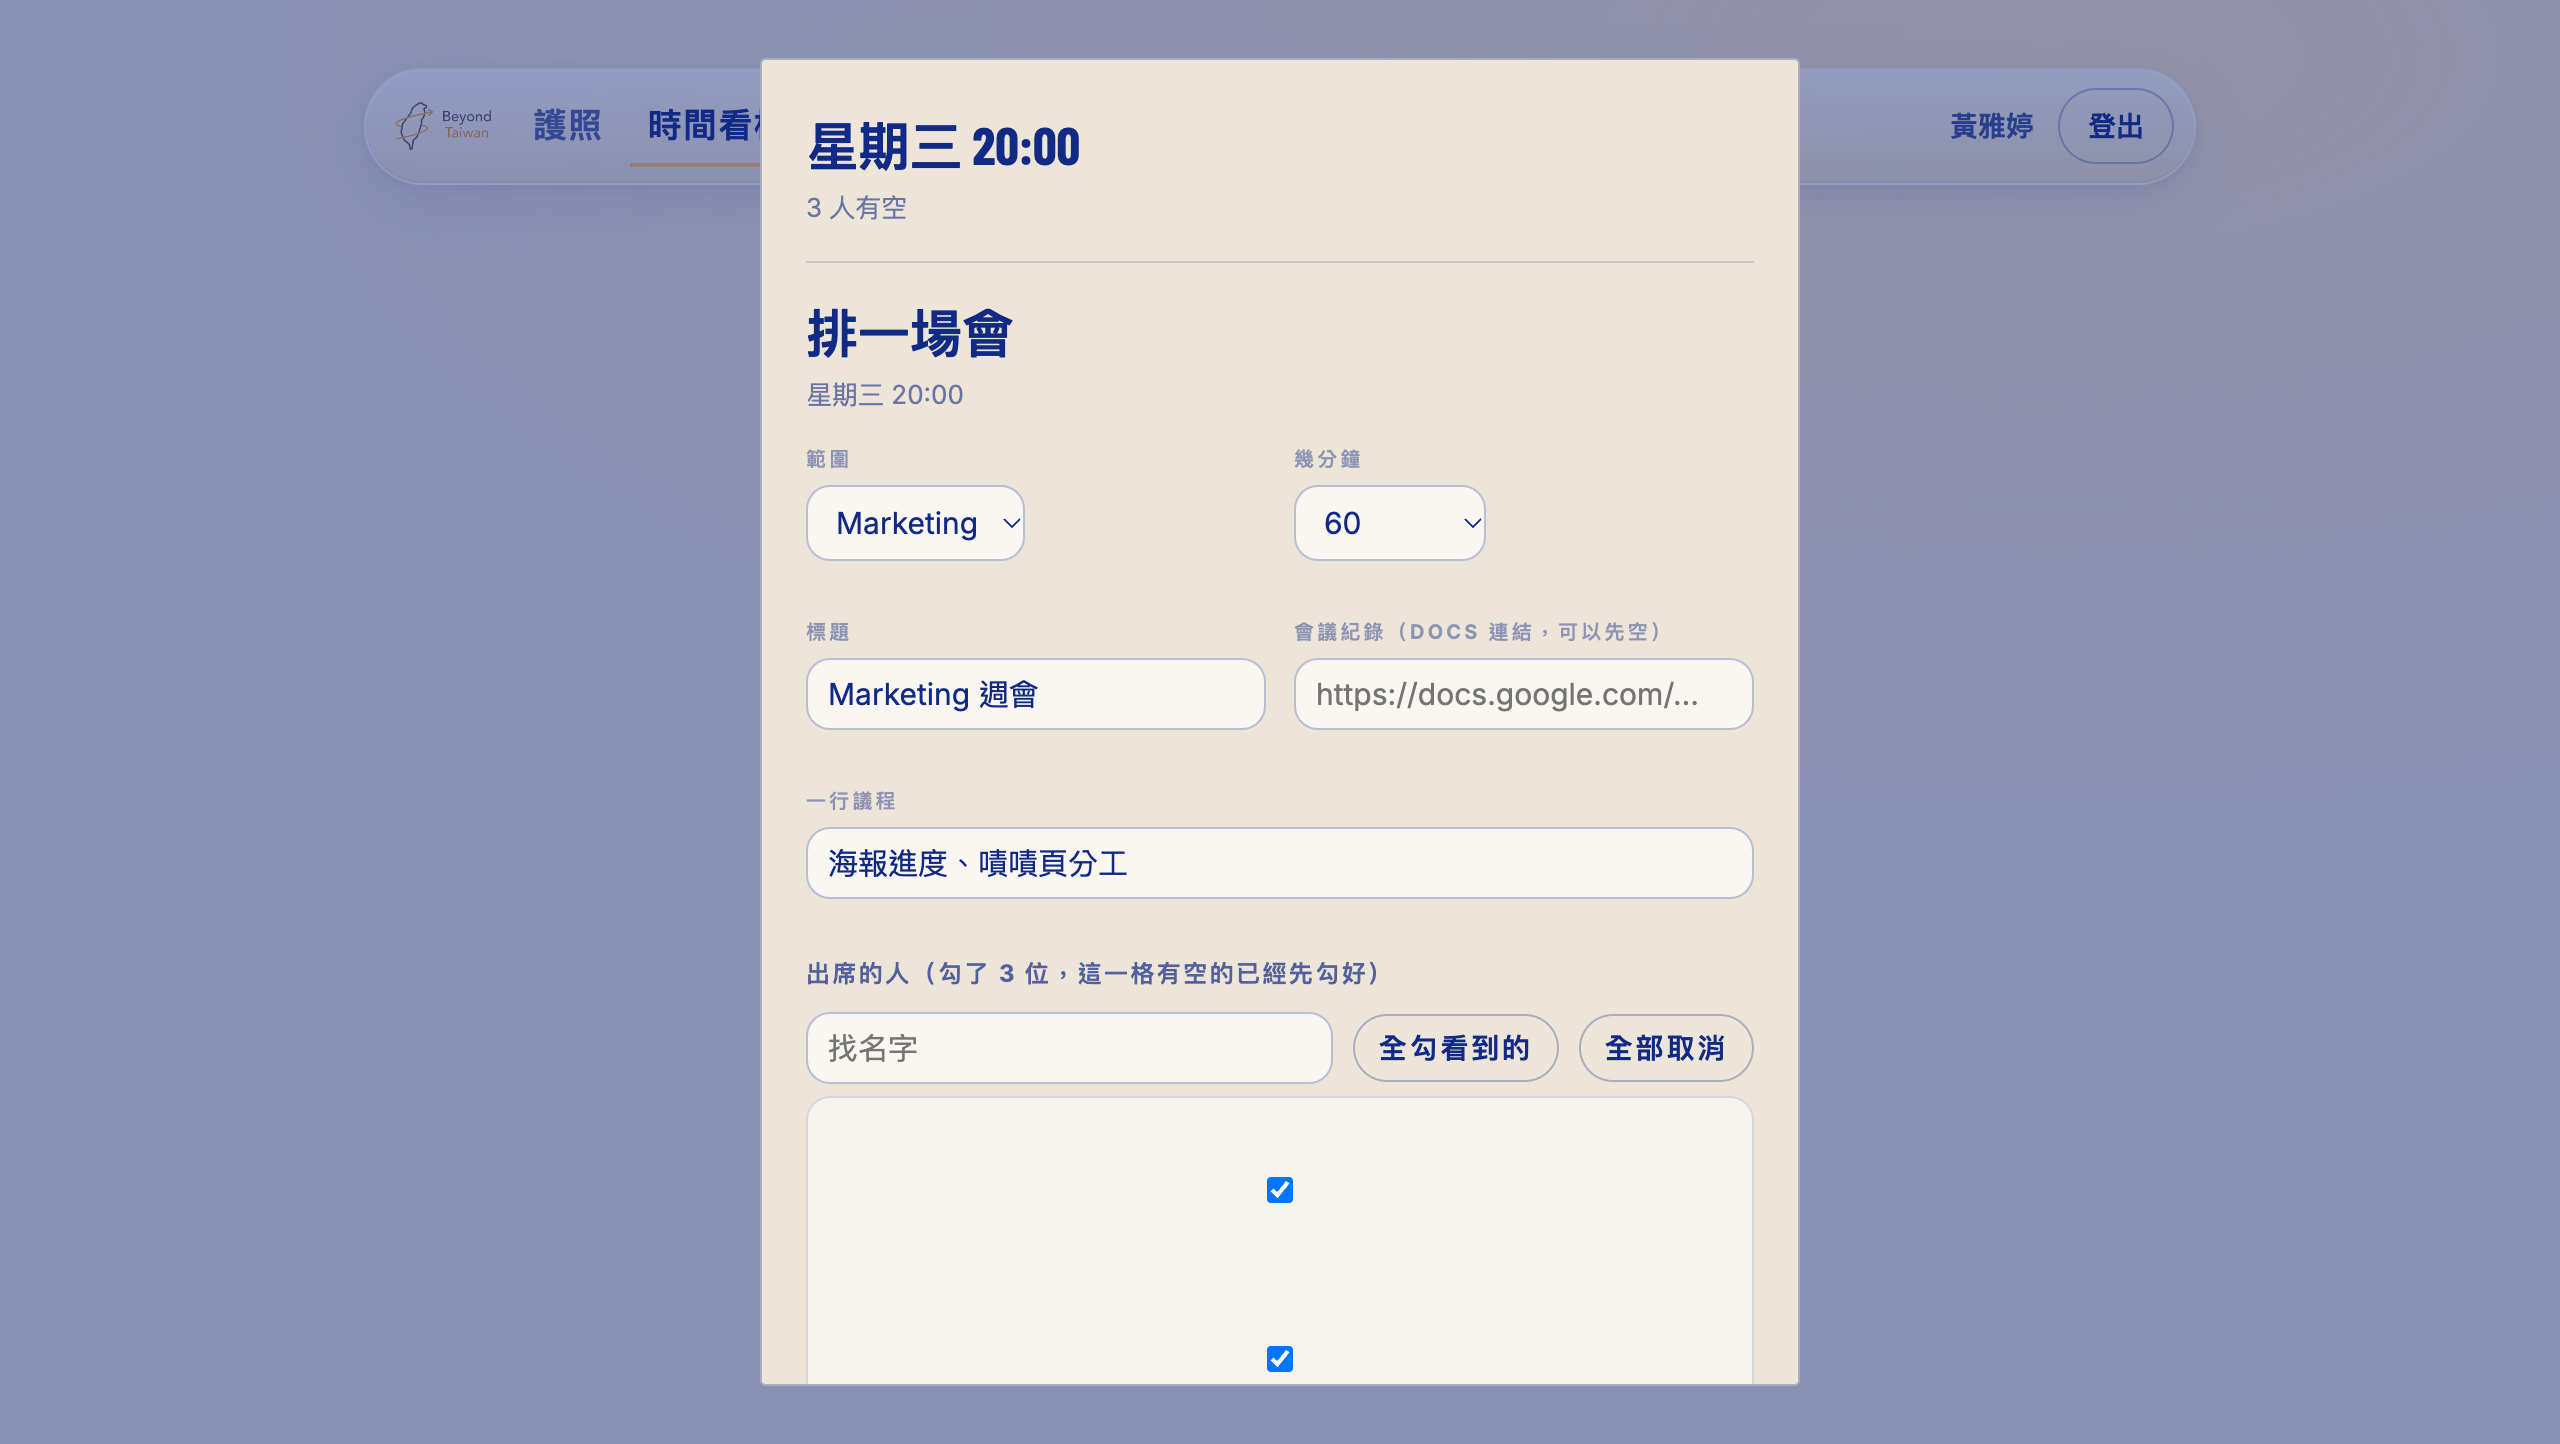
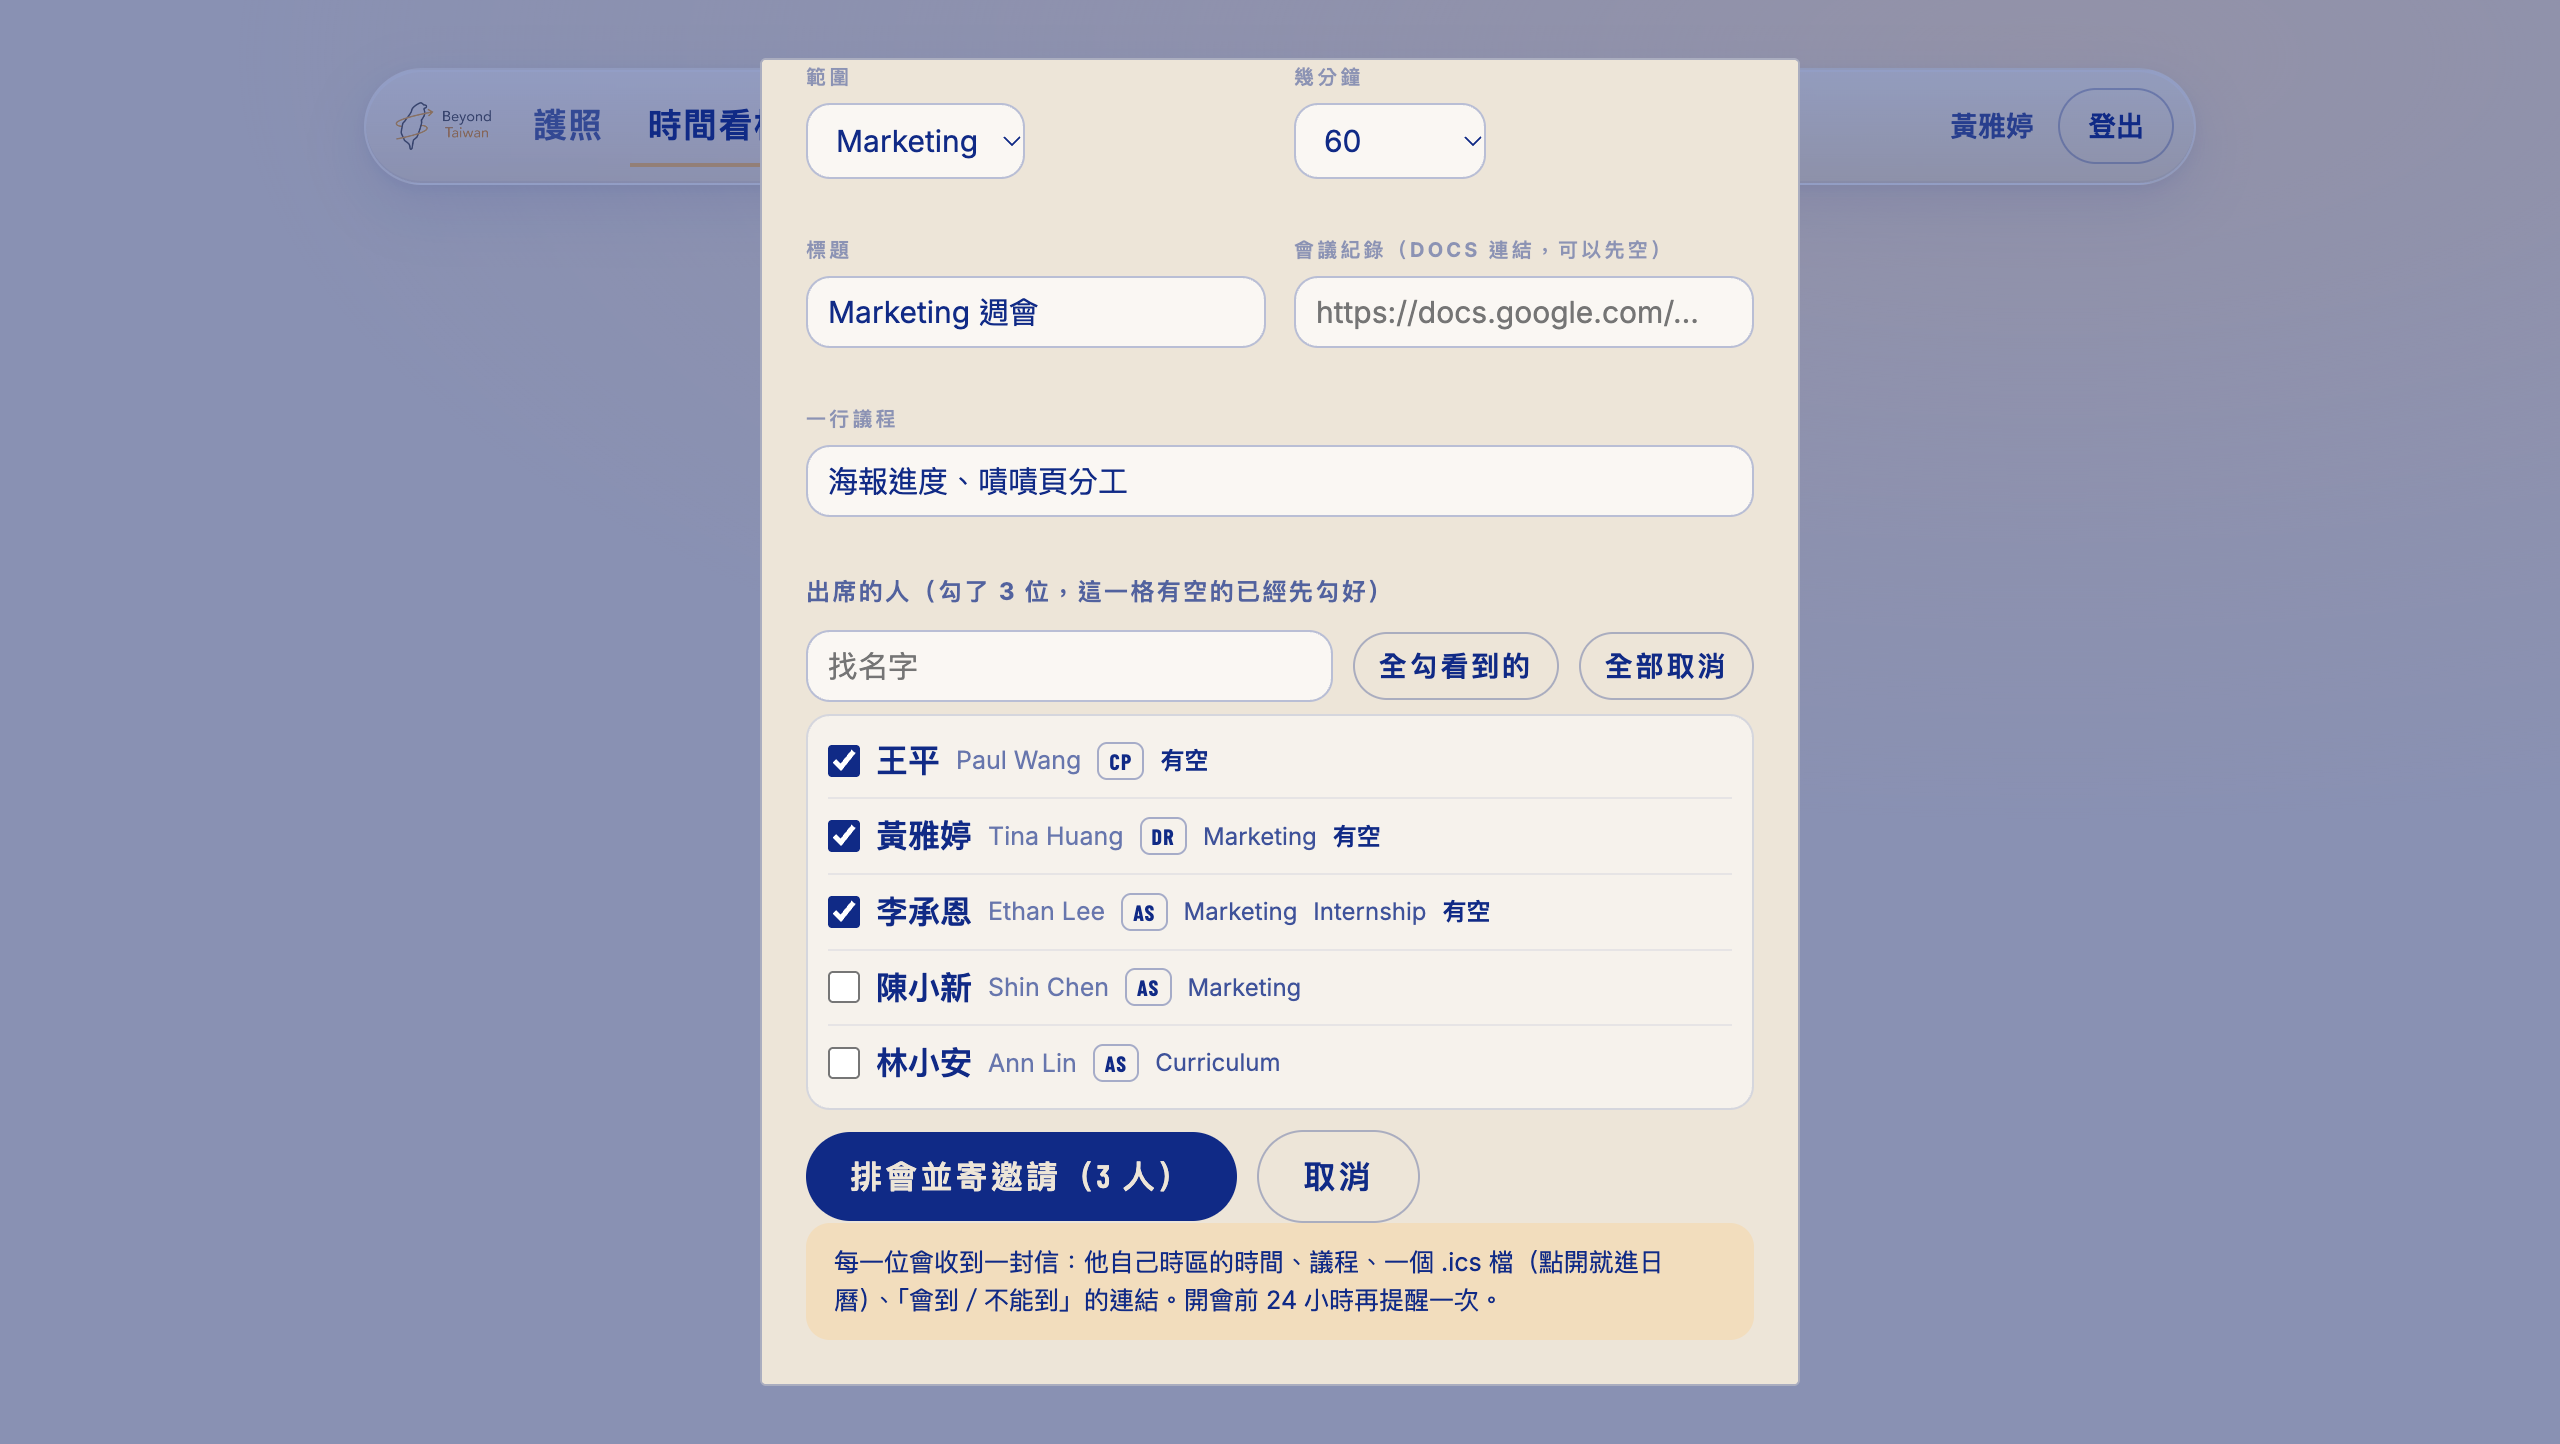
fix(availability): 排一場會的名單列：☑ 中文名 (English) · 職級標 · team · 有空，同一行靠左（看板自己的 CSS，不 import admin）；名單多讀 board_role；375px 兩欄變一欄、列可折；mt-02 重拍、加 mt-05（375px）

Changed region(s): [[0.3125, 0.0312, 0.6875, 0.9349], [0.5, 0.0312, 0.5938, 0.1247]]

diff --git a/availability/src/schedule.js b/availability/src/schedule.js
@@ -4,6 +4,8 @@ import { esc } from "./ui.js";
 import { T } from "./strings.js";
 
 export const SCOPE_BOARD = "board";
+// 職級的兩個字母（跟後台成員區同一張表：CP SA DR AD AS）。
+export const RANK_TAG = { president: "CP", senior_adviser: "SA", director: "DR", adviser: "AD", member: "AS" };
 export const parseTeams = raw => String(raw || "").split(/[,、;；]/).map(s => s.trim()).filter(Boolean);
 // 我能排哪些範圍：senior 全部（整個 BT 加六個 team）；其他人是自己資源工作區「管」的那幾個 team。ws 是 my_access() 回的 { 工作區: 等級 }。
 export function scopesFor(senior, ws, teams) {
@@ -20,7 +22,8 @@ export function scheduleHTML(sch, ctx, busy) {
   const dis = busy ? " disabled" : "";
   const ticked = new Set(d.ticked);
   const list = shown(ctx.members, d.q);
-  const row = m => `<label class="check sch-row"><input type="checkbox" name="sch-member" value="${esc(m.id)}" data-act="sch-tick"${ticked.has(m.id) ? " checked" : ""}${dis}><span>${esc(m.name)}${m.alt ? `<span class="alt">${esc(m.alt)}</span>` : ""}${ctx.free.includes(m.id) ? ` <span class="mini">${T("sch.isFree")}</span>` : ""}</span></label>`;
+  // 一列：☑ 中文名 (English) · 職級標 · team 淡字（· 有空），全部同一行、靠左，跟後台的成員區一樣。
+  const row = m => `<label class="check sch-row"><input type="checkbox" name="sch-member" value="${esc(m.id)}" data-act="sch-tick"${ticked.has(m.id) ? " checked" : ""}${dis}><b>${esc(m.name)}</b>${m.alt ? `<span class="alt">${esc(m.alt)}</span>` : ""}<span class="rk">${RANK_TAG[m.board_role] || "AS"}</span>${parseTeams(m.team).map(t => `<span class="mini">${esc(t.replace(/\s*Team$/i, ""))}</span>`).join(" ")}${ctx.free.includes(m.id) ? `<span class="mini free">${T("sch.isFree")}</span>` : ""}</label>`;
   return `<div class="sch" id="sch">
     <h3>${T("sch.title")}</h3>
     <div class="sub">${esc(ctx.when)}</div>

diff --git a/availability/index.html b/availability/index.html
@@ -267,8 +267,16 @@ a.btn:not(.ghost):active, a.cta:active, a.login:active{
 .sch-who > i{display:block;font-style:normal;font-size:12px;font-weight:700;letter-spacing:.1em;text-transform:uppercase;color:rgba(16,42,134,.7);margin-bottom:6px}
 .sch-who .row input{flex:1;min-width:120px}
 .sch-list{max-height:40vh;overflow:auto;border:1px solid rgba(16,42,134,.14);border-radius:12px;padding:4px 10px;background:rgba(255,255,255,.5);margin-top:6px}
-.sch-row{display:flex;flex-direction:row;align-items:center;gap:10px;margin:0;padding:5px 0}
-.sch-row input[type="checkbox"]{margin:0;flex:none}
+.sch-row{display:flex;flex-direction:row;align-items:center;gap:8px;margin:0;padding:6px 0;min-height:36px;white-space:nowrap;text-align:left;justify-content:flex-start;border-bottom:1px solid rgba(16,42,134,.07)}
+.sch-row:last-child{border-bottom:0}
+.sch-row input[type="checkbox"]{margin:0;flex:none;width:16px;height:16px;accent-color:var(--bt-navy)}
+.sch-row b{font-weight:600;flex:0 0 auto}
+.sch-row .alt{margin-left:0}
+.sch-row .mini{font-size:12px;overflow:hidden;text-overflow:ellipsis;min-width:0}
+.sch-row .mini.free{color:var(--bt-navy);font-weight:600}
+/* 職級的兩個字母（跟後台一樣的樣子，規則抄一份，資料夾之間不 import）。 */
+.rk{flex:none;font-family:var(--display);font-size:11px;font-weight:700;letter-spacing:.06em;line-height:1;padding:3px 5px;border:1px solid rgba(16,42,134,.35);border-radius:5px;color:var(--bt-navy)}
+@media (max-width:480px){ .sch .two{grid-template-columns:1fr} .sch-row{white-space:normal;flex-wrap:wrap;row-gap:2px} }
 .wnote.err{border-left:3px solid var(--bt-orange)}
 .rsvp{margin:0 0 18px;padding:14px 16px;border:1px solid var(--bt-orange);border-radius:14px;background:rgba(255,232,197,.45)}
 .rsvp h3{margin:0 0 2px}

diff --git a/availability/src/data.js b/availability/src/data.js
@@ -31,7 +31,7 @@ export function namesOf(p) {
 export async function loadAll() {
   if (!supabase) throw new Error(authMessage(null));
   const [pf, av, mt, wk, wm] = await Promise.all([
-    supabase.from("profiles").select("id, name_zh, name_en, team, tz").eq("role", "cadre"),
+    supabase.from("profiles").select("id, name_zh, name_en, team, tz, board_role").eq("role", "cadre"),
     supabase.from("availability").select("user_id, weekday, minute"),
     supabase.from("availability_meta").select("user_id, updated_at, notice_seen_at"),
     supabase.from("availability_week").select("user_id, week_start, weekday, minute"),
@@ -74,6 +74,7 @@ export async function loadAll() {
     id: p.id,
     ...namesOf(p),
     team: p.team || "",
+    board_role: p.board_role || "member",
     tz: p.tz || null,
     updatedAt: meta.get(p.id) ? meta.get(p.id).updated_at : null,
     noticeSeenAt: meta.get(p.id) ? meta.get(p.id).notice_seen_at : null,
